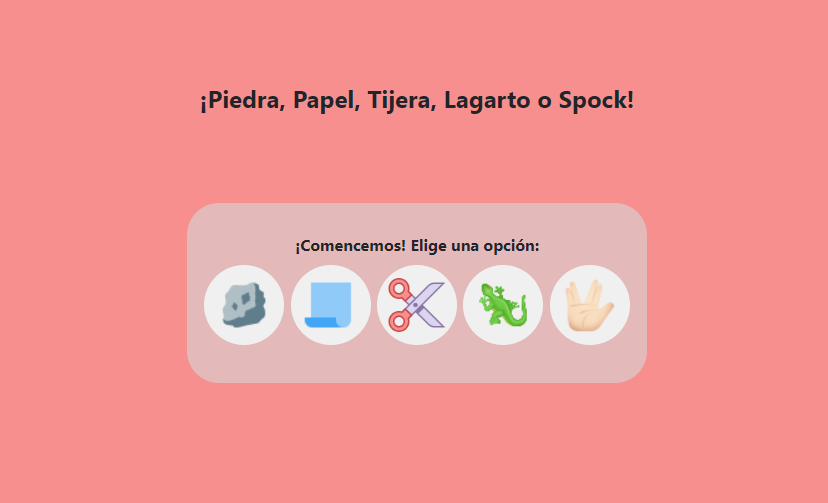
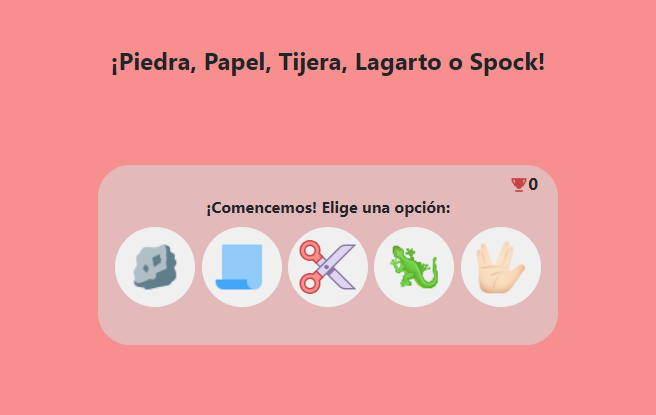
cambios :)

Changed region(s): [[0.1524, 0.3759, 0.8537, 0.8386], [0.1524, 0.1157, 0.8537, 0.2313]]

diff --git a/game-app/src/data/options.js b/game-app/src/data/options.js
@@ -1,9 +1,16 @@
+import roca from '../images/roca.png'
+import papel from '../images/papel.png'
+import tijera from '../images/tijera.png'
+import lagarto from '../images/lagarto.png'
+import spock from '../images/spock.png'
+
+
 const options = [
-    {id: 0, name: "Piedra", imagen: "https://img.icons8.com/color/48/rock.png", ganaA: [2, 3]},
-    {id: 1, name: "Papel", imagen: "https://img.icons8.com/color/48/paper.png", ganaA: [0, 4]},
-    {id: 2, name: "Tijera", imagen: "https://img.icons8.com/office/80/cut.png", ganaA:[1, 3]},
-    {id: 3, name: "Lagarto", imagen: "https://img.icons8.com/emoji/48/lizard-emoji.png", ganaA:[1, 4]},
-    {id: 4, name: "Spock", imagen: "https://img.icons8.com/emoji/48/vulcan-salute-light-skin-tone.png", ganaA:[3, 0]}
+    {id: 0, name: "Piedra", imagen: roca, ganaA: [2, 3]},
+    {id: 1, name: "Papel", imagen: papel, ganaA: [0, 4]},
+    {id: 2, name: "Tijera", imagen: tijera, ganaA:[1, 3]},
+    {id: 3, name: "Lagarto", imagen: lagarto, ganaA:[1, 4]},
+    {id: 4, name: "Spock", imagen: spock, ganaA:[3, 0]}
 
 ];
 
